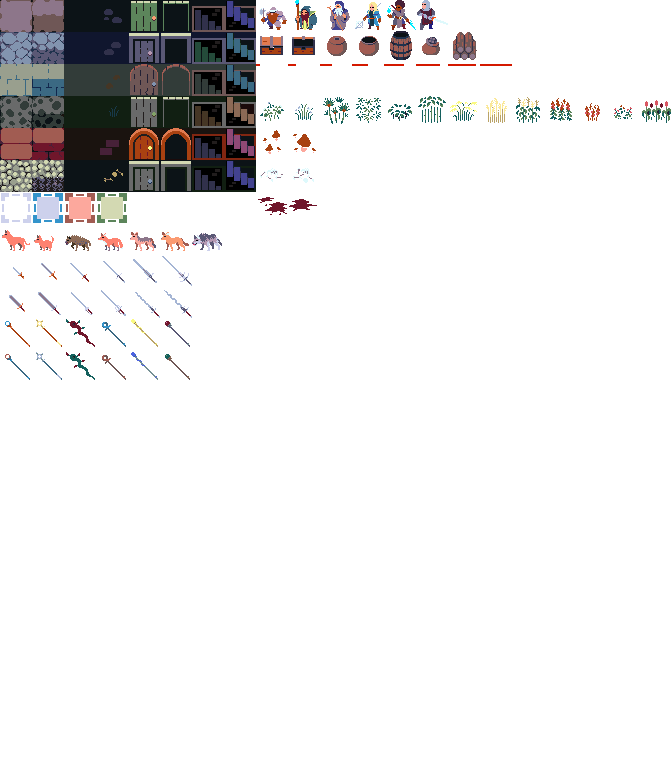
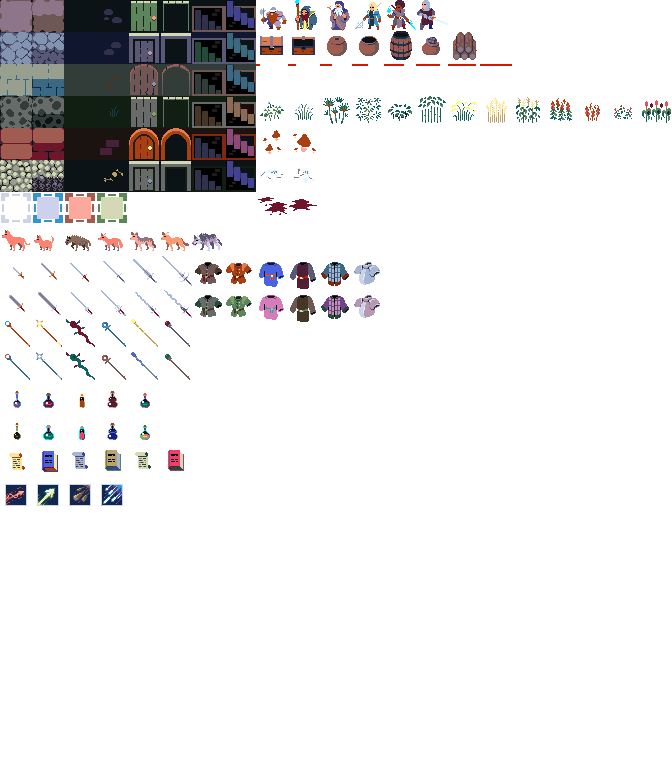
updates

diff --git a/src/item.js b/src/item.js
@@ -185,25 +185,19 @@ Game.doItem = function (action) {
       );
     }
   }
+  */
   if (action == 'sacrifice') {
-    if (
-      itemtype == 'weapon' ||
-      itemtype == 'armor' ||
-      itemtype == 'amulet' ||
-      itemtype == 'book'
-    ) {
-      if (Game.inventory[num].isWielded() == 1) {
-        //unwield item
-        Game.doItem('wield');
+    if (itemtype == 'weapon' || itemtype == 'armor' || itemtype == 'book') {
+      if (Game.inventory[num].isEquipped()) {
+        Game.doItem('unequip');
       }
     }
-    Game.messagebox.sendMessage(
+    Game.messageBox.sendMessage(
       'You sacrificed the ' + Game.inventory[num].name + '.'
     );
-    Game.entity[0].religion += Game.inventory[num].price;
+    Game.entity[0].piety += Game.inventory[num].price;
     Game.inventory.splice(num, 1);
   }
-  */
   if (action == 'drop') {
     if (itemtype == 'weapon' || itemtype == 'armor' || itemtype == 'book') {
       if (Game.inventory[num].isEquipped()) {
@@ -264,5 +258,51 @@ Game.ItemRepository.define('novicesword', function (level) {
     this.options.maxatk = this.options.maxatk * 2;
     this.options.str += 1;
     this.color = '#00f4';
+  }
+});
+
+Game.ItemRepository.define('novicestaff', function (level) {
+  this.name = 'novice staff (' + level + ')';
+  this.minLvl = 1;
+  this.maxLvl = 5;
+  this.type = 'weapon';
+  this.level = level;
+  this.color = '#0000';
+  this.symbol = 'staff' + (Math.floor(Math.random() * 4) + 4);
+  this.price = level + Math.floor(Math.random() * level);
+  this.options = {
+    minatk: 1,
+    maxatk: 4 + Math.floor(Math.random() * level),
+    int: 1 + Math.floor(Math.random() * level),
+    agi: 1 + Math.floor(Math.random() * level)
+  };
+  if (Math.random() < rareItemChance) {
+    this.name = '%c{lightsalmon}rare ' + this.name + '%c{}';
+    this.price = this.price * 2;
+    this.options.maxatk = this.options.maxatk * 2;
+    this.options.int += 1;
+    this.color = '#00f4';
+  }
+});
+
+Game.ItemRepository.define('novicepotion', function (level) {
+  this.name = 'novice potion (' + level + ')';
+  this.minLvl = 1;
+  this.maxLvl = 5;
+  this.type = 'potion';
+  this.level = level;
+  this.color = '#0000';
+  this.symbol = 'potion' + (Math.floor(Math.random() * 9) + 1);
+  this.price = level + Math.floor(Math.random() * level);
+  this.options = {
+    hp: 3 + Math.floor(Math.random() * level * 3),
+    mana: 3 + Math.floor(Math.random() * level * 3)
+  };
+  if (Math.random() < rareItemChance) {
+    this.name = '%c{lightsalmon}rare ' + this.name + '%c{}';
+    this.price = this.price * 2;
+    this.options.hp += 10;
+    this.options.mana += 10;
+    this.color = '#0f04';
   }
 });

diff --git a/src/skills.js b/src/skills.js
@@ -1,0 +1,48 @@
+Game.skills = [];
+
+Skill = function (properties) {
+  properties = properties || {};
+  this.name = properties['name'] || '';
+  this.action = properties['action'] || '';
+  this.level = properties['level'] || 1;
+  this.options = properties['options'] || {};
+  this.formulas = properties['formulas'] || {};
+  this.symbol = properties['symbol'] || '';
+  this.target = properties['target'] || '';
+  this.type = properties['type'] || '';
+};
+
+Game.SkillRepository = new Game.Repository('skills', Skill);
+
+Game.ItemRepository.define('weakarrow', function (level) {
+  this.symbol = ROT.RNG.getItem([
+    'firearrow',
+    'poisonarrow',
+    'stonearrow',
+    'icearrow'
+  ]);
+  if (this.symbol == 'firearrow') {
+    this.name = '%c{orange}fire arrow (' + level + ')%c{}';
+  }
+  if (this.symbol == 'poisonarrow') {
+    this.name = '%c{lightgreen}poison arrow (' + level + ')%c{}';
+  }
+  if (this.symbol == 'stonearrow') {
+    this.name = '%c{tan}stone arrow (' + level + ')%c{}';
+  }
+  if (this.symbol == 'icearrow') {
+    this.name = '%c{lightblue}ice arrow (' + level + ')%c{}';
+  }
+  this.minLvl = 1;
+  this.maxLvl = 5;
+  this.target = 'range';
+  this.type = 'damage';
+  this.level = level;
+  this.options = {
+    cost: 8 + level * 2,
+    minAtk: 1,
+    maxAtk: 8 + Math.floor(Math.random() * level * 2),
+    range: 2 + Math.floor(level / 2),
+    radius: 0
+  };
+});

diff --git a/src/tiles.js b/src/tiles.js
@@ -112,5 +112,40 @@ const gameTilemap = {
   staff9: [64, 352],
   staff10: [96, 352],
   staff11: [128, 352],
-  staff12: [160, 352]
+  staff12: [160, 352],
+  //armor
+  armor1: [192, 256],
+  armor2: [224, 256],
+  armor3: [256, 256],
+  armor4: [288, 256],
+  armor5: [320, 256],
+  armor6: [352, 256],
+  armor7: [192, 288],
+  armor8: [224, 288],
+  armor9: [256, 288],
+  armor10: [288, 288],
+  armor11: [320, 288],
+  armor12: [352, 288],
+  //other items
+  potion1: [0, 384],
+  potion2: [32, 384],
+  potion3: [64, 384],
+  potion4: [96, 384],
+  potion5: [128, 384],
+  potion6: [0, 416],
+  potion7: [32, 416],
+  potion8: [64, 416],
+  potion9: [96, 416],
+  potion10: [128, 416],
+  scroll1: [0, 448],
+  book1: [32, 448],
+  scroll2: [64, 448],
+  book2: [96, 448],
+  scroll3: [128, 448],
+  book3: [160, 448],
+  //spells
+  firearrow: [0, 480],
+  poisonarrow: [32, 480],
+  stonearrow: [64, 480],
+  icearrow: [96, 480]
 };

diff --git a/index.html b/index.html
@@ -39,5 +39,6 @@
     <script src="src/messages.js"></script>
     <script src="src/entity.js"></script>
     <script src="src/item.js"></script>
+    <script src="src/skills.js"></script>
   </body>
 </html>
